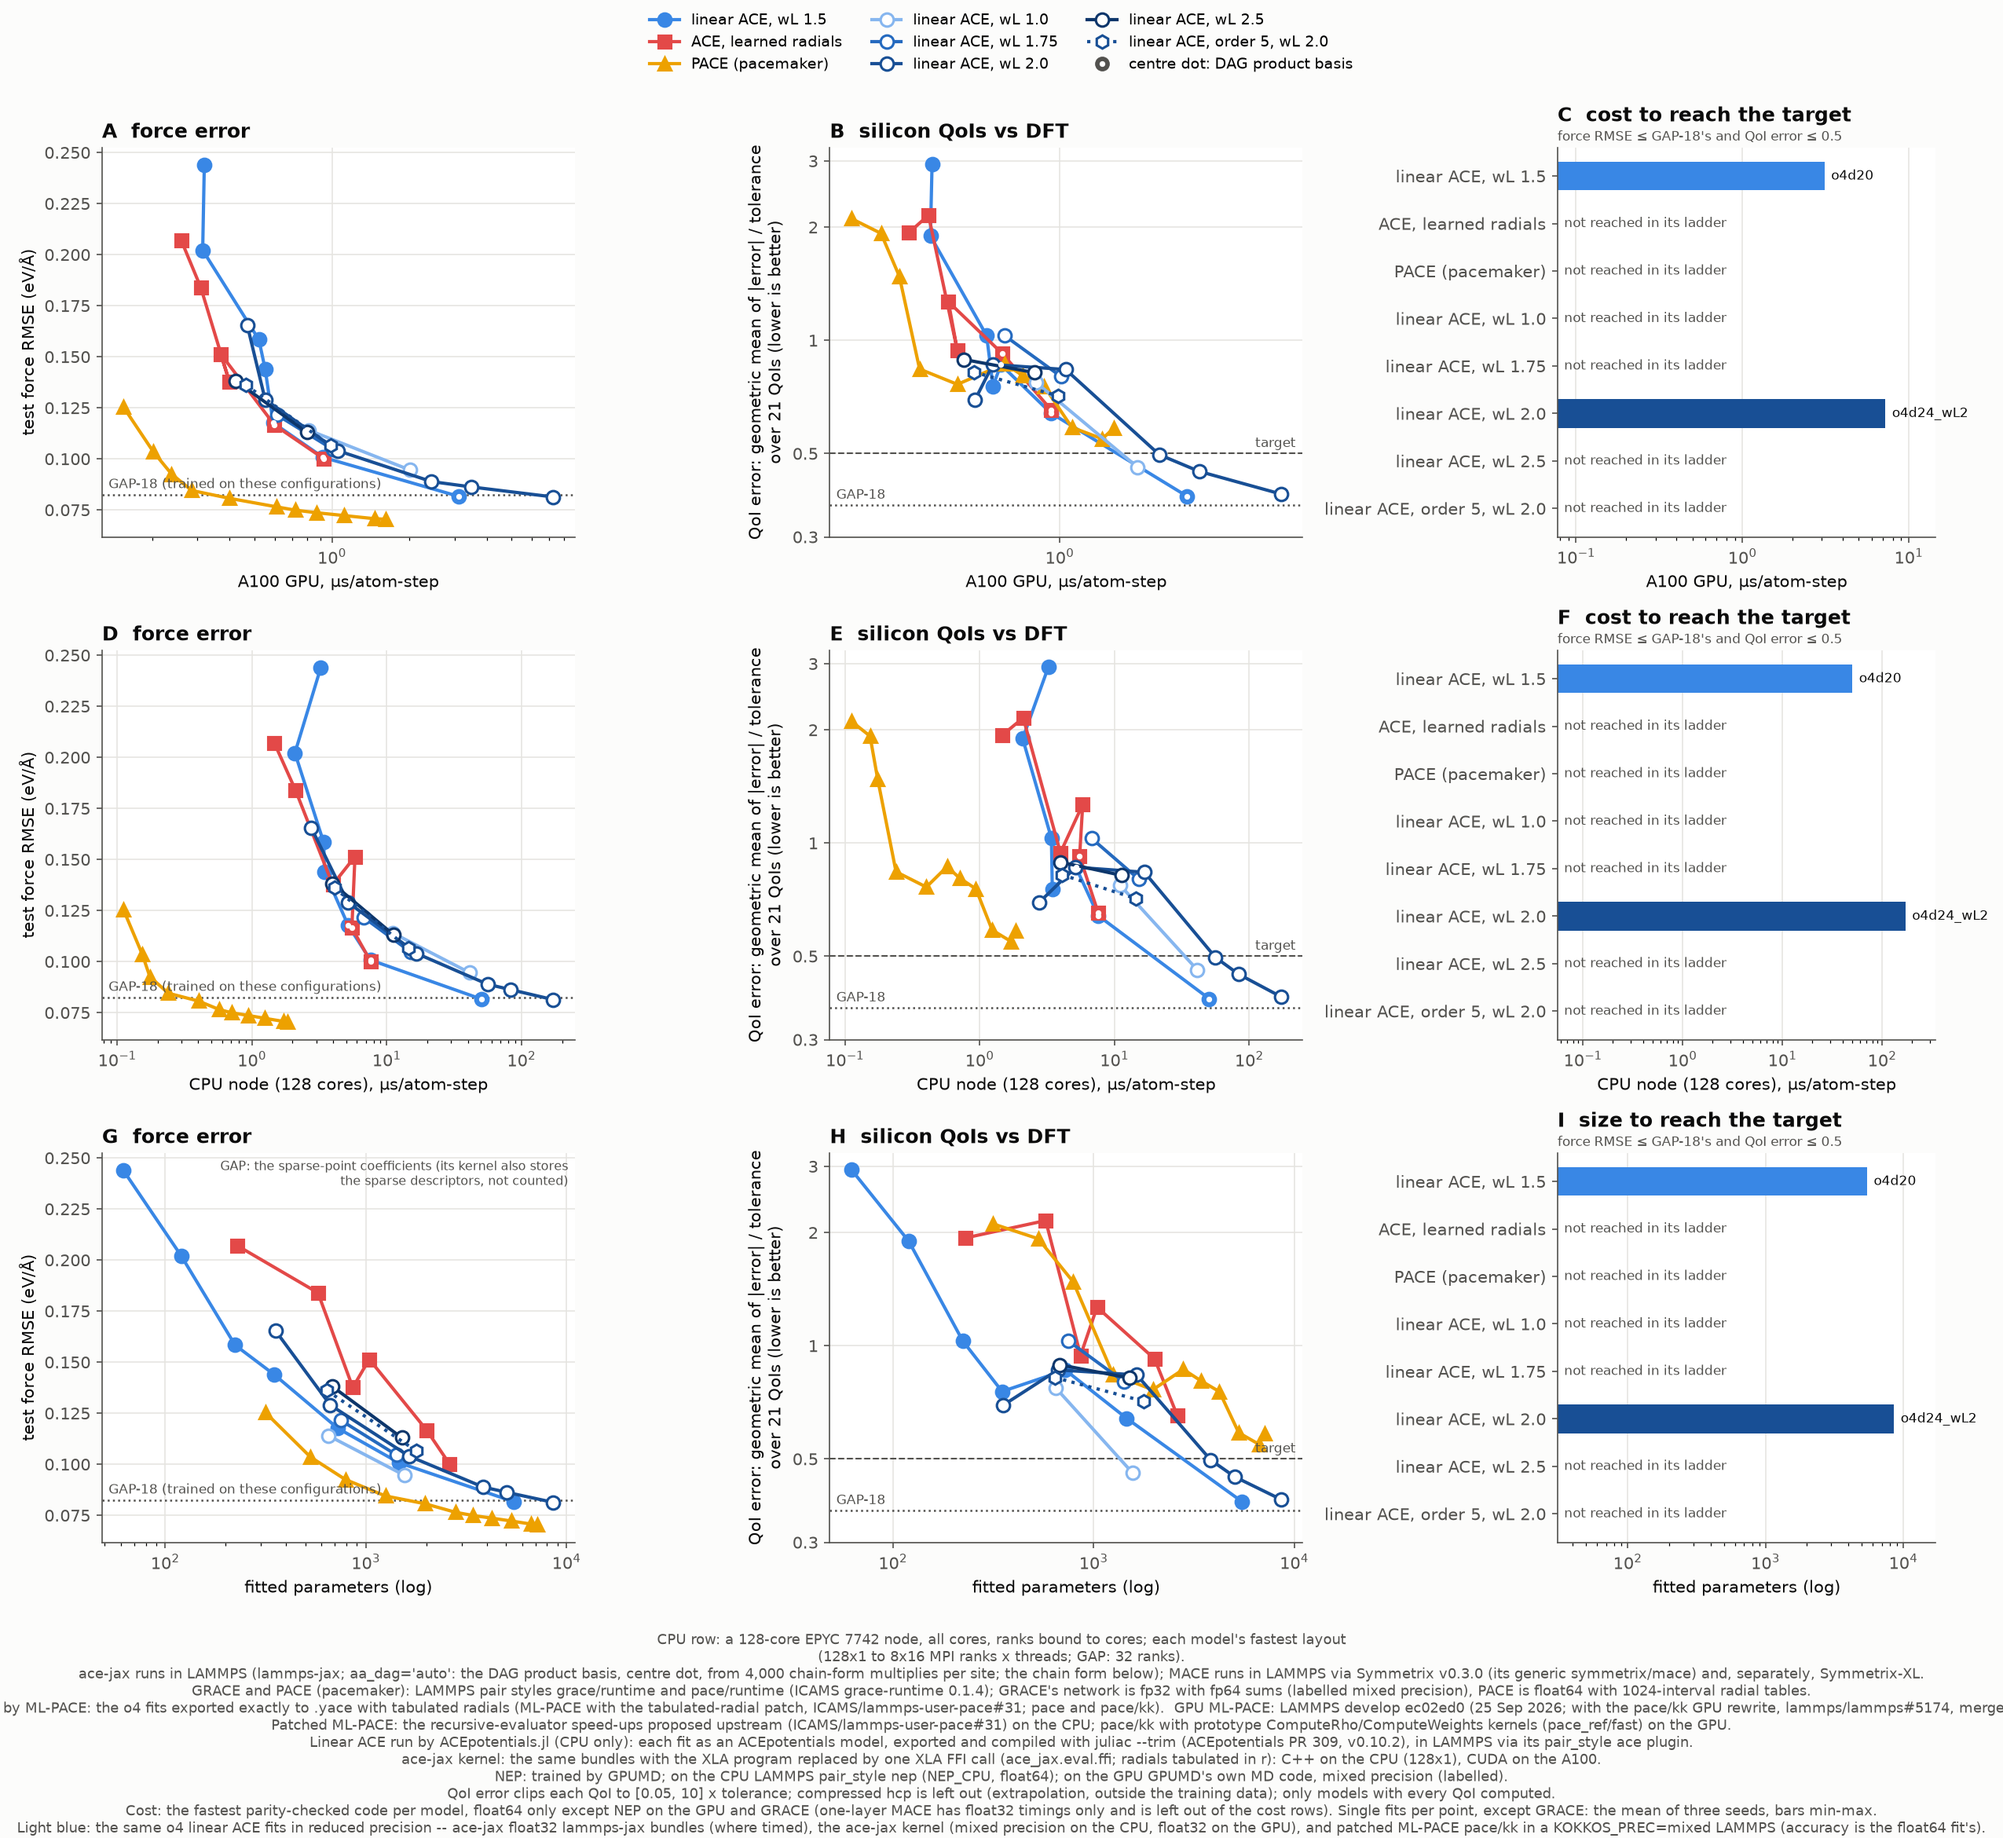
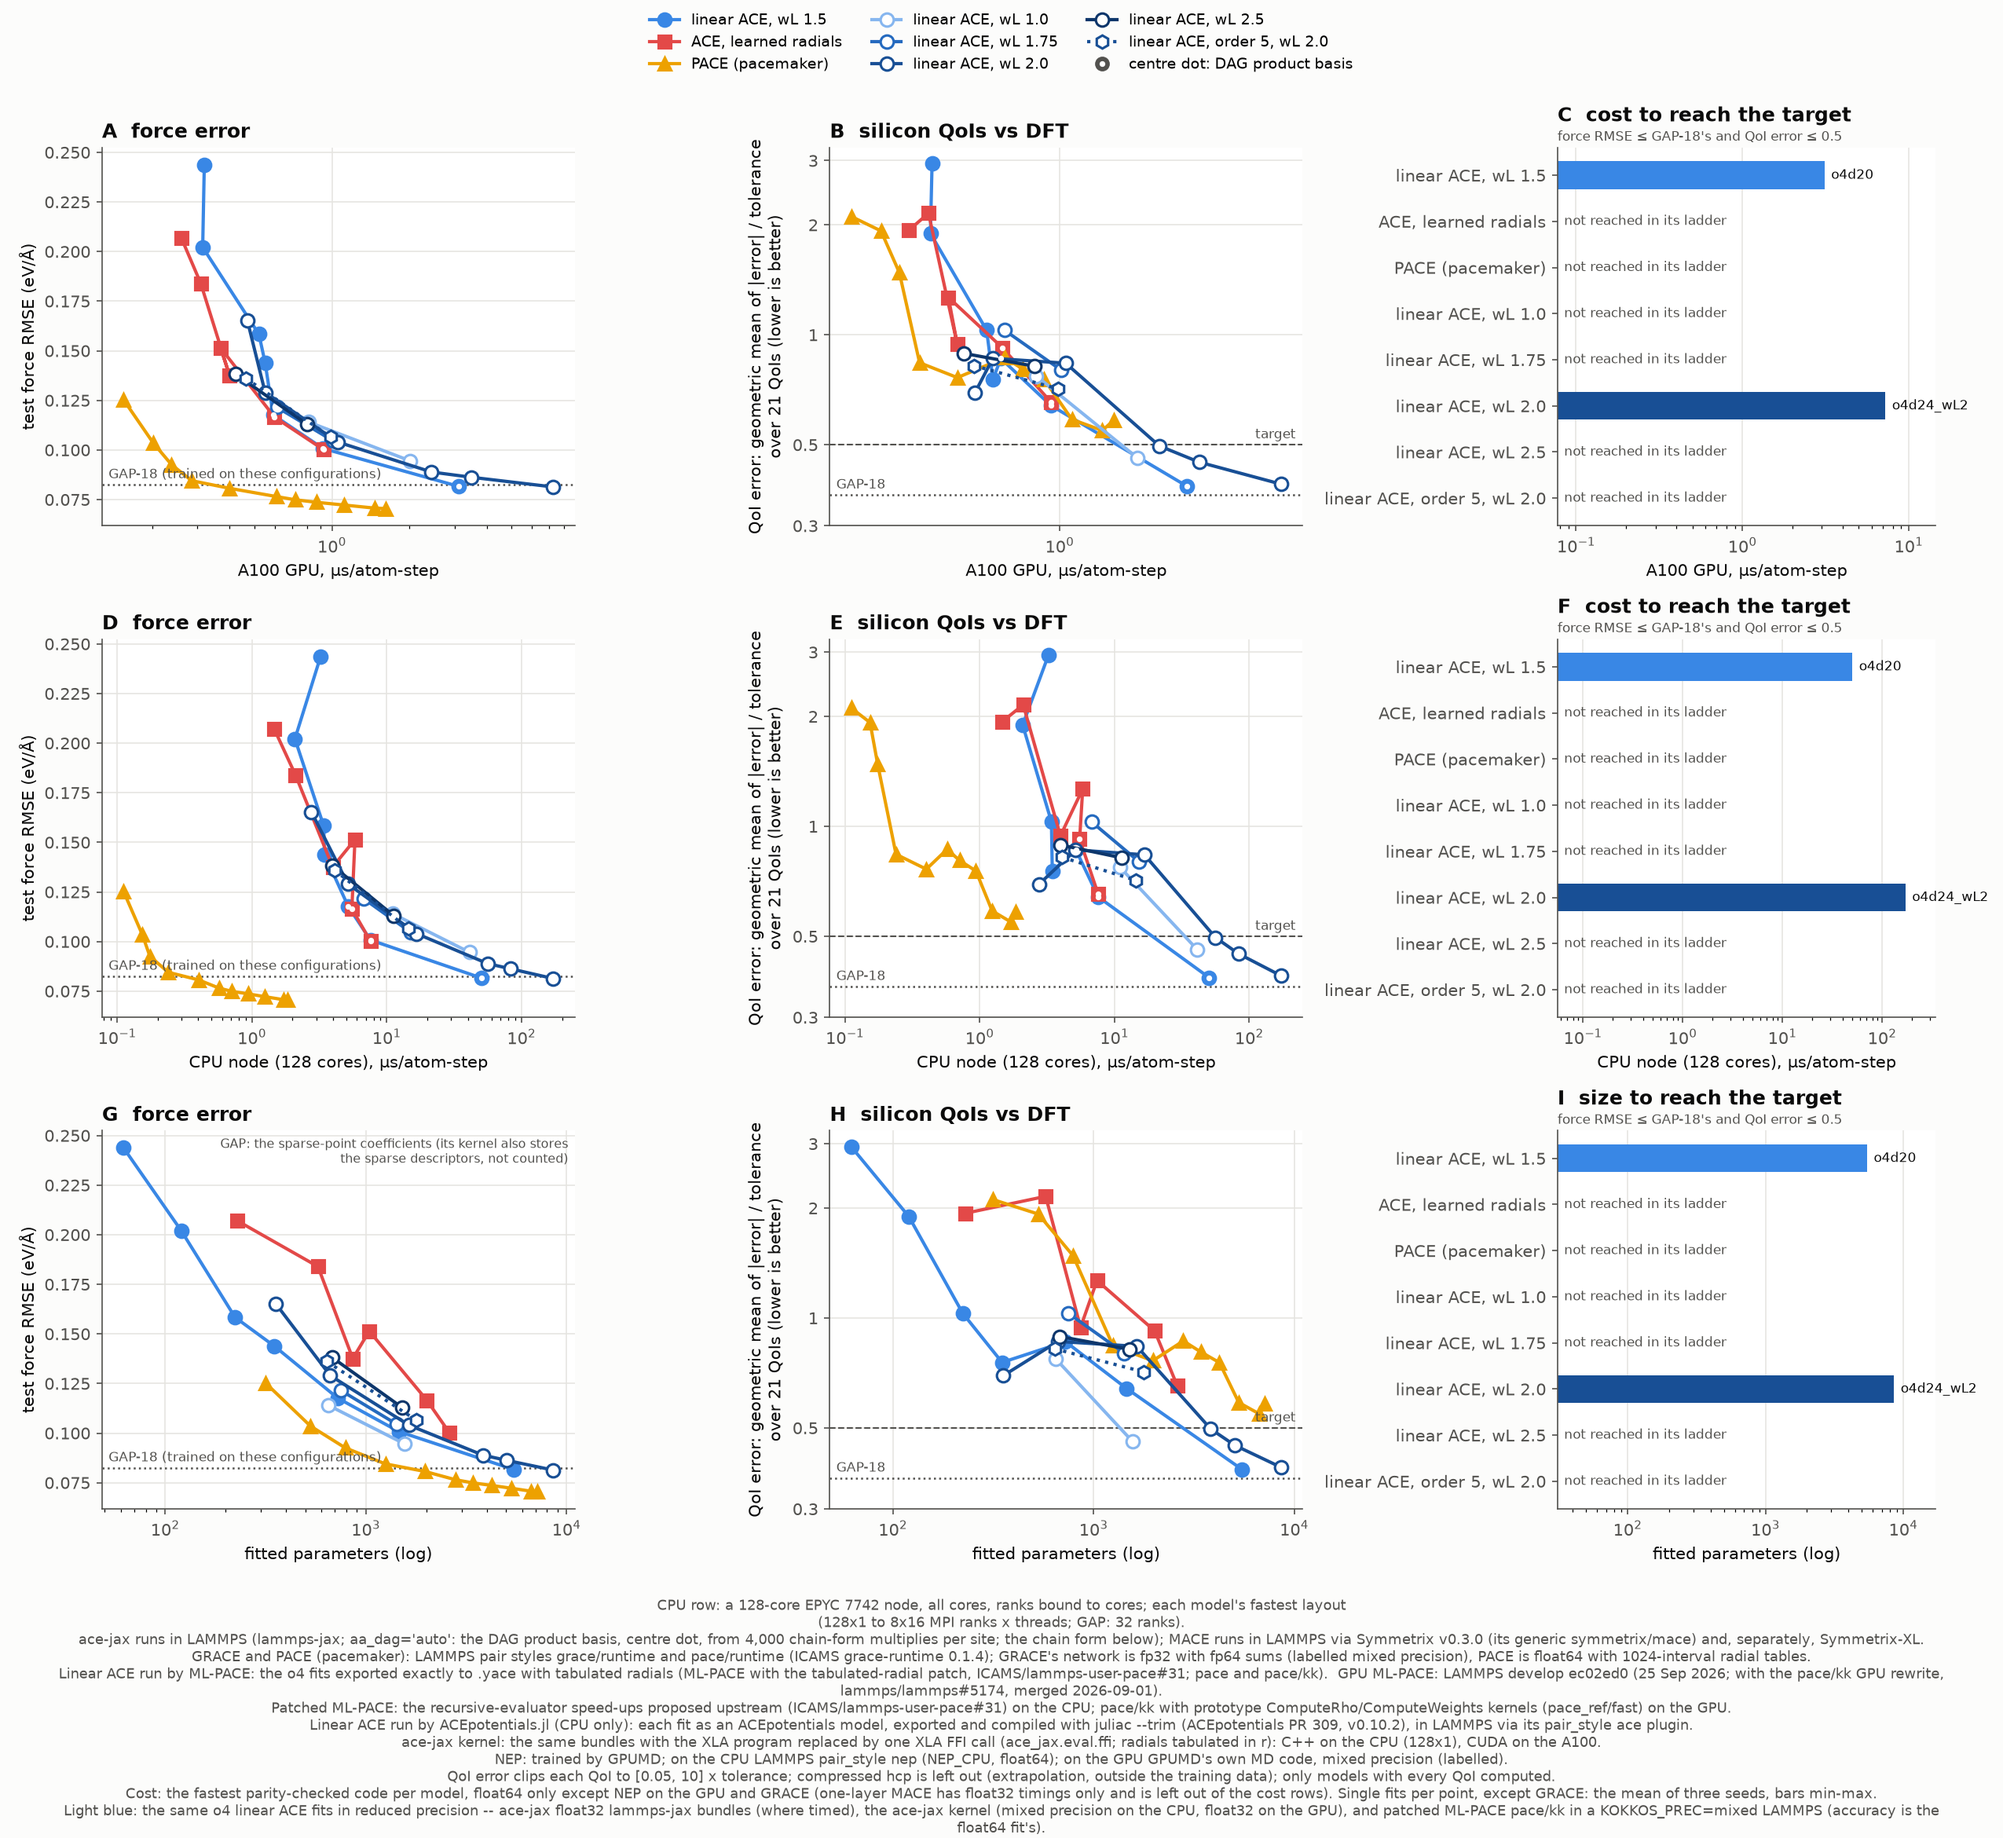
fix(bench): wrap the cost figure's footnote to the figure width
The line lengthened in #166 ran past both edges of rmse_qoi_cost.png. Each
footnote line is now wrapped to the figure width; both figures regenerated.

diff --git a/bench/si_qoi/plot_cost.py b/bench/si_qoi/plot_cost.py
@@ -12,7 +12,7 @@ the GPU, appears there only).
 
     python bench/si_qoi/plot_cost.py [--row "A100 cost (µs per atom-step, log)|cost.json|cost.codes.json" ...] [--out fig.png]
 """
-import argparse, json, pathlib, sys
+import argparse, json, pathlib, sys, textwrap
 
 import matplotlib
 import matplotlib.ticker  # noqa: E402,F401
@@ -471,6 +471,9 @@ def main():
                 "Light blue: the same o4 linear ACE fits in reduced precision -- ace-jax float32 lammps-jax bundles (where timed), the "
                 "ace-jax kernel (mixed precision on the CPU, float32 on the GPU), and patched ML-PACE pace/kk in a KOKKOS_PREC=mixed "
                 "LAMMPS (accuracy is the float64 fit's).")
+        # wrap to the figure: at 8.5 pt a character is ~0.062 in, and an unwrapped line is clipped at both edges
+        width = int(fig.get_figwidth() / 0.062 * 0.95)
+        note = "\n".join(w for line in note.split("\n") for w in (textwrap.wrap(line, width) or [""]))
         fig.text(0.5, 0.003, note, ha="center", fontsize=8.5, color=MUTED)
         # the axes start above the note: its lines (8.5 pt, 1.2 spacing) plus room for the bottom row's axis label
         bottom = ((note.count("\n") + 1) * 8.5 * 1.2 / 72 + 0.2) / fig.get_figheight()
